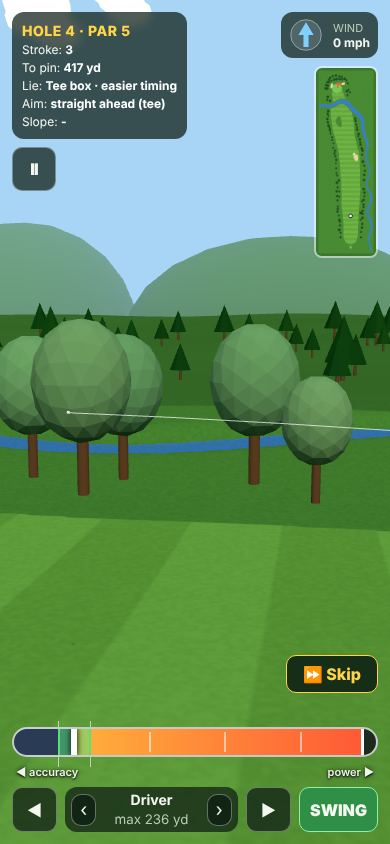
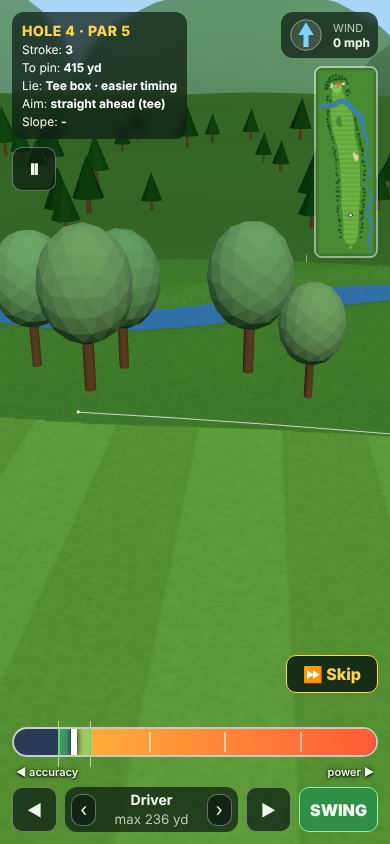
QA-1: the side flight camera tries higher and further out before giving up
On the tree-lined mountain holes full-power drives found no clear side spot (QA on #64). The side
camera now tries CAM.side.tries (+12 m ... +40 m and further off the line) on the drawn side, then
the other, then behind. Weights and rules unchanged; test: side possible from every Mountain 9 tee
and landing area at 75/90/100% power.

Claude-Session: https://claude.ai/code/session_01Rv6NgAADw2XvfsDiNgoB5v

diff --git a/src/core/views.js b/src/core/views.js
@@ -129,16 +129,16 @@ export const FLIGHT_VIEWS = Object.freeze(['behind', 'side', 'landing']);
 
 // Where a 'side' or 'landing' camera stands for a shot. shot = { from, dir: {x,z} (unit), land
 // (predicted landing, no wind/curve), carry (m, flat), apex (m above the start) }, side = ±1 (right / left
-// of the flight line). Returns { x, y, z }.
-export function flightSpot(heightAt, kind, shot, side) {
+// of the flight line), tryAt = { up, off } (CAM.side.tries: higher and further out, QA-1). Returns { x, y, z }.
+export function flightSpot(heightAt, kind, shot, side, tryAt = { up: 0, off: 0 }) {
   const { from, dir, land, carry, apex } = shot;
   const px = -dir.z * side, pz = dir.x * side; // perpendicular, to the right for side = +1
   let x, z, up;
   if (kind === 'side') {
     const c = CAM.side;
-    x = from.x + dir.x * carry * c.along + px * carry * c.off;
-    z = from.z + dir.z * carry * c.along + pz * carry * c.off;
-    up = Math.max(c.minH, apex * c.apexK);
+    x = from.x + dir.x * carry * c.along + px * carry * (c.off + tryAt.off);
+    z = from.z + dir.z * carry * c.along + pz * carry * (c.off + tryAt.off);
+    up = Math.max(c.minH, apex * c.apexK) + tryAt.up;
   } else {
     const c = CAM.landingCam;
     x = land.x + dir.x * c.past + px * c.off;
@@ -170,7 +170,9 @@ function seesShot(world, spot, shot) {
 //   1. putts, and full shots carrying less than CAM_VARIETY_MIN, are 'behind' (and CAM_VARIETY 0 = Classic: always)
 //   2. else a weighted draw (CAM_W_BEHIND / SIDE / LANDING)
 //   3. no view more than CAM_MAX_RUN times in a row, and 'landing' never twice in a row
-//   4. a 'side' or 'landing' spot that can't see the shot (seesShot) is not used: the other side is tried first
+//   4. a 'side' or 'landing' spot that can't see the shot (seesShot) is not used. A side camera first tries
+//      higher and further out (CAM.side.tries, QA-1: above the tree tops), then the same on the other side;
+//      a landing camera tries the other side. Then 'behind'.
 // The draw always takes the same number of random numbers (2), so the stream stays in step whatever wins.
 export function pickFlightView(world, rng, history, shot) {
   if (typeof world === 'function') world = { heightAt: world };
@@ -190,8 +192,9 @@ export function pickFlightView(world, rng, history, shot) {
   for (const k of order) {
     if (!allowed(k) || (k !== 'behind' && !(w[k] > 0))) continue;
     if (k === 'behind') return behind;
-    for (const sd of [side, -side]) {
-      const spot = flightSpot(heightAt, k, shot, sd);
+    const tries = k === 'side' ? CAM.side.tries : [undefined];
+    for (const sd of [side, -side]) for (const tryAt of tries) {
+      const spot = flightSpot(heightAt, k, shot, sd, tryAt);
       if (seesShot(world, spot, shot)) return { kind: k, spot, side: sd };
     }
   }

diff --git a/tests/views.test.js b/tests/views.test.js
@@ -7,7 +7,7 @@ import { aimView, landingView, readView, project, lineClear, nextView, VIEW_STEP
 import { TUNE, CAM, setTunable, resetTunables } from '../src/core/config.js';
 import { createRng } from '../src/core/rng.js';
 import { createHolePlay } from '../src/core/play.js';
-import { HOLES } from '../src/holes/sets.js';
+import { HOLES, MTN } from '../src/holes/sets.js';
 import { SCENARIOS } from '../src/holes/scenarios.js';
 import { dirFromAim } from '../src/core/vec.js';
 
@@ -203,6 +203,31 @@ test('V3 never blind: a side or landing spot that cannot see the shot is not use
     if (f.spot) assert.ok(!play.surfaces[play.terrain.surfaceAt(f.spot.x, f.spot.z)].penalty, `${f.kind} in bounds`);
   }
   assert.ok(hist.some(k => k !== 'behind'), 'mtn-04 still gets some variety: ' + [...new Set(hist)])
+});
+
+test('QA-1 (PR #64): on the tree-lined Mountain 9 the side view finds a clear spot from most tees and landing areas (higher / further out first)', () => {
+  try {
+    // Only the side view, to see where it is possible (the weights and rules are not changed by this)
+    setTunable('CAM_W_BEHIND', 0); setTunable('CAM_W_LANDING', 0); setTunable('CAM_W_SIDE', 1);
+    for (const fromLanding of [false, true]) for (const pw of [0.75, 0.9, 1]) {
+      let ok = 0;
+      for (const hole of MTN) {
+        const play = createHolePlay(hole, { seed: 1 }); play.reset();
+        if (fromLanding && hole.aimTarget) {
+          const a = hole.aimTarget; Object.assign(play.ball.pos, { x: a.x, z: a.z, y: play.terrain.heightAt(a.x, a.z) }); play.prepare();
+        }
+        const from = { ...play.ball.pos }, land = play.landingPoint(play.clubIdx, play.aim, pw);
+        const vy = play.hit(pw, 0).vel.y;
+        const shot = { putt: false, from, land, carry: Math.hypot(land.x - from.x, land.z - from.z), dir: { x: play.shotDir.x, z: play.shotDir.z }, apex: vy * vy / 19.62 };
+        const world = { heightAt: play.terrain.heightAt, surfaceAt: play.terrain.surfaceAt, obstacles: play.obstacles, penalty: id => !!play.surfaces[id]?.penalty };
+        if (shot.carry < TUNE.CAM_VARIETY_MIN) { ok++; continue; } // a short shot is behind by rule, not for lack of a spot
+        const f = pickFlightView(world, createRng(1), [], shot);
+        if (f.kind === 'side') ok++;
+      }
+      // Measured today: 9 of 9 in every case (before QA-1: full-power drives on mtn-01, 04, 05 and 09 found none)
+      assert.ok(ok >= 7, `${fromLanding ? 'landing area' : 'tee'} at ${pw}: side possible on ${ok} of ${MTN.length}`);
+    }
+  } finally { resetTunables(); }
 });
 
 // --- V4: the flyover ----------------------------------------------------------------------------

diff --git a/src/core/config.js b/src/core/config.js
@@ -112,7 +112,10 @@ export const CAM = Object.freeze({
   // `off` × the carry to one side, at max(minH, apexK × the apex) m; landingCam = `past` m beyond the
   // predicted landing and `off` m to one side, `height` m up. The landing camera hands over to the chase
   // camera when the ball runs more than passBy m past it.
-  side:       Object.freeze({ along: 0.4, off: 0.17, minH: 15, apexK: 1 }),
+  side:       Object.freeze({ along: 0.4, off: 0.17, minH: 15, apexK: 1,
+    // QA-1 (PR #64): on tree-lined holes the first spot often has leaves in the way, so these are tried
+    // next, in order (on the drawn side, then the other side): up = m higher, off = × the carry further out
+    tries: Object.freeze([{ up: 0, off: 0 }, { up: 12, off: 0 }, { up: 12, off: 0.08 }, { up: 25, off: 0.12 }, { up: 40, off: 0.18 }]) }),
   landingCam: Object.freeze({ past: 25, off: 9, height: 7, passBy: 40 }),
   flightEase: Object.freeze({ look: 12 }), // how fast a standing flight camera turns to keep the ball in view (1/s)
   viewSalt: 0x5eed1e55, // V3: the view RNG = createRng(hole seed ^ this), its own stream (physics never draws from it)

diff --git a/docs/DESIGN.md b/docs/DESIGN.md
@@ -165,7 +165,7 @@ Clubs: Driver 215 m / 12°, 3W 195/17, 5i 170/21, 7i 150/26, 9i 125/32, PW 105/3
 Where the camera stands is pure math in core (`src/core/views.js`, tests/views.test.js); `src/game/camera.js` only eases toward it. **Never a blind shot**, in phone portrait and landscape.
 - ✅ **V1 aiming view** (owner on PR #63: "the aiming camera was fine before"; the 🔍 Landing button is how the player looks at the marker). **Main's camera**: 7 m behind the ball on the aim line, looking at the ground 30 m ahead (`CAM.aim`); putts 3.5 m back, 1.6 m up, looking 5 m ahead (`CAM.putt`, unchanged). The full-shot height is main's 2.6 m × **`CAM_AIM_HEIGHT`** (default 1 = main exactly, `?tune=`; the owner compared 1 / 1.25 / 1.5 on #63: "the today camera is the best"). One correction: when the ball would show below the **free band** (from the lowest top panel over the screen's centre down to the top of the meter panel, `session.js measureFrame`), the camera tilts down (same spot) so the ball sits at `CAM.ballMax` (97%) of the band. On main the ball hid behind the hint line in phone landscape and when facing a steep upslope. Wherever main showed the ball, the view is main's. The marker may be off screen (the landing button shows it). Test: on every hole, scenario and club, portrait and landscape, the ball is in the band.
 - ✅ **V2 view button** (small, above the meter on the left, only while aiming before click 1; ⏩ Skip uses the right side of that row while the ball moves). Optional: nothing needs it. A **tap** opens a view until tapped again, **holding** it (> `CAM.holdMs`, 300 ms) shows the view until it is released; **V** on a keyboard is a tap. Full shots: **🔍 Landing**, from behind and above the marker looking at it (the marker in the free band). Putts: **👁 Read** steps through **from above** (ball and cup both in the band, the putt up the screen, the grid if the green has one), then **low** (crouched 3 m behind the ball at 0.45 m, looking at the cup), then back. The label says what the next tap does (↩ Back on the last view). Aiming and changing club still work in a view; starting the swing (click 1) or a new shot returns to the aiming view.
-- ✅ **V3 flight camera variety** (`pickFlightView`): **behind** (the chase camera, as before), **side** (a spot 40% down the line and 17% of the carry to one side, at least 15 m up, above the canopy; it hands over to behind at the first bounce) and **landing** (25 m past the predicted landing, 9 m to one side, 7 m up, watching the ball come in and roll; behind once the ball runs 40 m past it). A standing camera is a cut at the hit and turns to keep the ball in view. Rules: putts and shots carrying under `CAM_VARIETY_MIN` (60 m) are behind; otherwise a weighted draw `CAM_W_BEHIND` / `CAM_W_SIDE` / `CAM_W_LANDING` (0.5 / 0.25 / 0.25); no view more than `CAM_MAX_RUN` (2) shots in a row, landing never twice, counted **across the round** (PM on #63; it starts over with a new game or Play again). **Never blind:** a side or landing spot is used only if it is in bounds (the scenery forest stands outside OB) and sees the landing spot, the top of the flight and the start past the hills and the in-play trees and rocks (else the other side, else behind). **Seeded:** its own RNG stream (`createRng(hole seed ^ CAM.viewSalt)`, 2 numbers per shot), so the physics, lip-outs and leaves never change (baselines untouched). **Settings → Flight camera: Varied / Classic** (Classic = always behind; also `?tune=CAM_VARIETY:0`).
+- ✅ **V3 flight camera variety** (`pickFlightView`): **behind** (the chase camera, as before), **side** (a spot 40% down the line and 17% of the carry to one side, at least 15 m up, above the canopy; it hands over to behind at the first bounce) and **landing** (25 m past the predicted landing, 9 m to one side, 7 m up, watching the ball come in and roll; behind once the ball runs 40 m past it). A standing camera is a cut at the hit and turns to keep the ball in view. Rules: putts and shots carrying under `CAM_VARIETY_MIN` (60 m) are behind; otherwise a weighted draw `CAM_W_BEHIND` / `CAM_W_SIDE` / `CAM_W_LANDING` (0.5 / 0.25 / 0.25); no view more than `CAM_MAX_RUN` (2) shots in a row, landing never twice, counted **across the round** (PM on #63; it starts over with a new game or Play again). **Never blind:** a side or landing spot is used only if it is in bounds (the scenery forest stands outside OB) and sees the landing spot, the top of the flight and the start past the hills and the in-play trees and rocks. A side camera that can't first tries higher and further out (`CAM.side.tries`: +12 m, +12 m and 8% further, +25 m and 12%, +40 m and 18%; QA-1 on PR #64: full-power drives on the tree-lined mountain holes found no spot), then the same on the other side; a landing camera tries the other side; else behind. Side is possible from every Mountain 9 tee and landing area (test). **Seeded:** its own RNG stream (`createRng(hole seed ^ CAM.viewSalt)`, 2 numbers per shot), so the physics, lip-outs and leaves never change (baselines untouched). **Settings → Flight camera: Varied / Classic** (Classic = always behind; also `?tune=CAM_VARIETY:0`).
 - ✅ **V4 hole flyover** (`flyoverRoute`, `flyoverPath`): the hole's regular route only, tee → `aimTarget` (else the default tee aim point) → green, never the `playLine` corner (PM on #63); par 3: tee → green. A smoothed path 32 m over the ground (down to 16 m near the green) that runs on 30 m past the cup, so it ends behind the green looking back at the flag; `length / CAM_FLYOVER_SPEED` (90 m/s), 3.5–6.5 s, on the real clock. A `flyover` game state (`states.js`) after the intro or hole card, then the tee's aiming view; meanwhile the bottom panel shows only the "Tap to skip the flyover" hint (PM on #63). **A tap, Space, Enter or ⏩ skips it**; it never swings. It plays the first time a hole starts from its tee in a game (each hole of a round, `?hole=` links, practice holes), not on `?scenario=` spots, a restart or Play again on one hole; a new round plays them again. **Settings → Hole flyover: On / Off** (default On). The tools (session-check, menu-check, baseline) skip it where they wait for aiming.
 
 ### Surface table (today's values: `rest` / `keep` / `decel`)
